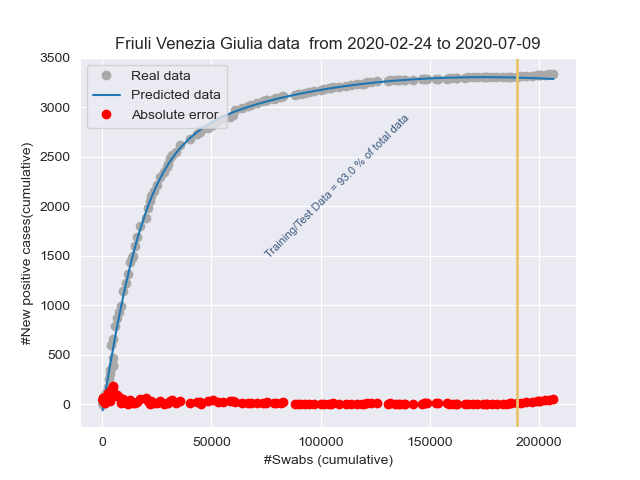
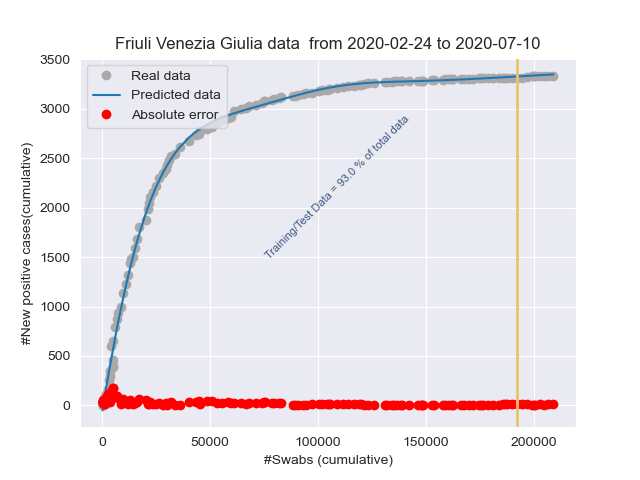
Add files via upload

diff --git a/stat_Friuli Venezia Giulia.html b/stat_Friuli Venezia Giulia.html
@@ -1,1 +1,1 @@
-<!DOCTYPE html><html lang="it"><head><title>Results</title><meta charset="utf-8"><meta name="viewport" content="width=device-width, initial-scale=1"><link rel="stylesheet" href="bootstrap.min.css"><script src="https://ajax.googleapis.com/ajax/libs/jquery/3.4.1/jquery.min.js"></script><script src="https://maxcdn.bootstrapcdn.com/bootstrap/3.4.1/js/bootstrap.min.js"></script></head><body><h3>Day: 2020-07-09</h3><p class="lead my-3">New positive cases: <b>1</b></p><p class="lead my-3">Variation of positive cases: <b>-75.0%</b></p><p class="lead my-3">Number of swabs: <b>2228.0</b></p><p class="lead my-3">Variation of swabs: <b>1.09%</b></p><p class="lead my-3">Postive cases/Swabs: <b>0.04 %</b></p><p class="lead my-3">Number of people admitted to Intensive care: <b>0</b></p><p class="lead my-3">Number of recovered people: <b>8.0</b></p><p class="lead my-3">Number of dead people: <b>0.0</b></p><h3>Total</h3><p class="lead my-3">Population of  Friuli Venezia Giulia: <b>1215220</b> <a href="http://dati.istat.it/Index.aspx?QueryId=18548" target="_blank">ISTAT data</a></p><p class="lead my-3">Total number of positive cases from 2020-02-24 00:00:00 to 2020-07-09: <b> 3332</b></p><p class="lead my-3">Total number of swabs from 2020-02-24 00:00:00 to 2020-07-09: <b> 206808</b></p><p class="lead my-3">TotalSwabs/Population: <b> 17.02%</b></p></body></html>
+<!DOCTYPE html><html lang="it"><head><title>Results</title><meta charset="utf-8"><meta name="viewport" content="width=device-width, initial-scale=1"><link rel="stylesheet" href="bootstrap.min.css"><script src="https://ajax.googleapis.com/ajax/libs/jquery/3.4.1/jquery.min.js"></script><script src="https://maxcdn.bootstrapcdn.com/bootstrap/3.4.1/js/bootstrap.min.js"></script></head><body><h3>Day: 2020-07-10</h3><p class="lead my-3">New positive cases: <b>1</b></p><p class="lead my-3">Variation of positive cases: <b>0.0%</b></p><p class="lead my-3">Number of swabs: <b>2353.0</b></p><p class="lead my-3">Variation of swabs: <b>1.14%</b></p><p class="lead my-3">Postive cases/Swabs: <b>0.04 %</b></p><p class="lead my-3">Number of people admitted to Intensive care: <b>0</b></p><p class="lead my-3">Number of recovered people: <b>-2.0</b></p><p class="lead my-3">Number of dead people: <b>0.0</b></p><h3>Total</h3><p class="lead my-3">Population of  Friuli Venezia Giulia: <b>1215220</b> <a href="http://dati.istat.it/Index.aspx?QueryId=18548" target="_blank">ISTAT data</a></p><p class="lead my-3">Total number of positive cases from 2020-02-24 00:00:00 to 2020-07-10: <b> 3333</b></p><p class="lead my-3">Total number of swabs from 2020-02-24 00:00:00 to 2020-07-10: <b> 209161</b></p><p class="lead my-3">TotalSwabs/Population: <b> 17.21%</b></p></body></html>

diff --git a/stat_Emilia-Romagna.html b/stat_Emilia-Romagna.html
@@ -1,1 +1,1 @@
-<!DOCTYPE html><html lang="it"><head><title>Results</title><meta charset="utf-8"><meta name="viewport" content="width=device-width, initial-scale=1"><link rel="stylesheet" href="bootstrap.min.css"><script src="https://ajax.googleapis.com/ajax/libs/jquery/3.4.1/jquery.min.js"></script><script src="https://maxcdn.bootstrapcdn.com/bootstrap/3.4.1/js/bootstrap.min.js"></script></head><body><h3>Day: 2020-07-09</h3><p class="lead my-3">New positive cases: <b>29</b></p><p class="lead my-3">Variation of positive cases: <b>-40.82%</b></p><p class="lead my-3">Number of swabs: <b>5343.0</b></p><p class="lead my-3">Variation of swabs: <b>1.01%</b></p><p class="lead my-3">Postive cases/Swabs: <b>0.54 %</b></p><p class="lead my-3">Number of people admitted to Intensive care: <b>10</b></p><p class="lead my-3">Number of recovered people: <b>19.0</b></p><p class="lead my-3">Number of dead people: <b>0.0</b></p><h3>Total</h3><p class="lead my-3">Population of  Emilia-Romagna: <b>4459477</b> <a href="http://dati.istat.it/Index.aspx?QueryId=18548" target="_blank">ISTAT data</a></p><p class="lead my-3">Total number of positive cases from 2020-02-24 00:00:00 to 2020-07-09: <b> 28788</b></p><p class="lead my-3">Total number of swabs from 2020-02-24 00:00:00 to 2020-07-09: <b> 536432</b></p><p class="lead my-3">TotalSwabs/Population: <b> 12.03%</b></p></body></html>
+<!DOCTYPE html><html lang="it"><head><title>Results</title><meta charset="utf-8"><meta name="viewport" content="width=device-width, initial-scale=1"><link rel="stylesheet" href="bootstrap.min.css"><script src="https://ajax.googleapis.com/ajax/libs/jquery/3.4.1/jquery.min.js"></script><script src="https://maxcdn.bootstrapcdn.com/bootstrap/3.4.1/js/bootstrap.min.js"></script></head><body><h3>Day: 2020-07-10</h3><p class="lead my-3">New positive cases: <b>53</b></p><p class="lead my-3">Variation of positive cases: <b>82.76%</b></p><p class="lead my-3">Number of swabs: <b>4182.0</b></p><p class="lead my-3">Variation of swabs: <b>0.78%</b></p><p class="lead my-3">Postive cases/Swabs: <b>1.27 %</b></p><p class="lead my-3">Number of people admitted to Intensive care: <b>10</b></p><p class="lead my-3">Number of recovered people: <b>6.0</b></p><p class="lead my-3">Number of dead people: <b>0.0</b></p><h3>Total</h3><p class="lead my-3">Population of  Emilia-Romagna: <b>4459477</b> <a href="http://dati.istat.it/Index.aspx?QueryId=18548" target="_blank">ISTAT data</a></p><p class="lead my-3">Total number of positive cases from 2020-02-24 00:00:00 to 2020-07-10: <b> 28841</b></p><p class="lead my-3">Total number of swabs from 2020-02-24 00:00:00 to 2020-07-10: <b> 540614</b></p><p class="lead my-3">TotalSwabs/Population: <b> 12.12%</b></p></body></html>

diff --git a/stat_Lombardia.html b/stat_Lombardia.html
@@ -1,1 +1,1 @@
-<!DOCTYPE html><html lang="it"><head><title>Results</title><meta charset="utf-8"><meta name="viewport" content="width=device-width, initial-scale=1"><link rel="stylesheet" href="bootstrap.min.css"><script src="https://ajax.googleapis.com/ajax/libs/jquery/3.4.1/jquery.min.js"></script><script src="https://maxcdn.bootstrapcdn.com/bootstrap/3.4.1/js/bootstrap.min.js"></script></head><body><h3>Day: 2020-07-09</h3><p class="lead my-3">New positive cases: <b>119</b></p><p class="lead my-3">Variation of positive cases: <b>67.61%</b></p><p class="lead my-3">Number of swabs: <b>11812.0</b></p><p class="lead my-3">Variation of swabs: <b>1.07%</b></p><p class="lead my-3">Postive cases/Swabs: <b>1.01 %</b></p><p class="lead my-3">Number of people admitted to Intensive care: <b>31</b></p><p class="lead my-3">Number of recovered people: <b>217.0</b></p><p class="lead my-3">Number of dead people: <b>5.0</b></p><h3>Total</h3><p class="lead my-3">Population of  Lombardia: <b>10060574</b> <a href="http://dati.istat.it/Index.aspx?QueryId=18548" target="_blank">ISTAT data</a></p><p class="lead my-3">Total number of positive cases from 2020-02-24 00:00:00 to 2020-07-09: <b> 94764</b></p><p class="lead my-3">Total number of swabs from 2020-02-24 00:00:00 to 2020-07-09: <b> 1114827</b></p><p class="lead my-3">TotalSwabs/Population: <b> 11.08%</b></p></body></html>
+<!DOCTYPE html><html lang="it"><head><title>Results</title><meta charset="utf-8"><meta name="viewport" content="width=device-width, initial-scale=1"><link rel="stylesheet" href="bootstrap.min.css"><script src="https://ajax.googleapis.com/ajax/libs/jquery/3.4.1/jquery.min.js"></script><script src="https://maxcdn.bootstrapcdn.com/bootstrap/3.4.1/js/bootstrap.min.js"></script></head><body><h3>Day: 2020-07-10</h3><p class="lead my-3">New positive cases: <b>135</b></p><p class="lead my-3">Variation of positive cases: <b>13.45%</b></p><p class="lead my-3">Number of swabs: <b>11505.0</b></p><p class="lead my-3">Variation of swabs: <b>1.03%</b></p><p class="lead my-3">Postive cases/Swabs: <b>1.17 %</b></p><p class="lead my-3">Number of people admitted to Intensive care: <b>27</b></p><p class="lead my-3">Number of recovered people: <b>145.0</b></p><p class="lead my-3">Number of dead people: <b>6.0</b></p><h3>Total</h3><p class="lead my-3">Population of  Lombardia: <b>10060574</b> <a href="http://dati.istat.it/Index.aspx?QueryId=18548" target="_blank">ISTAT data</a></p><p class="lead my-3">Total number of positive cases from 2020-02-24 00:00:00 to 2020-07-10: <b> 94899</b></p><p class="lead my-3">Total number of swabs from 2020-02-24 00:00:00 to 2020-07-10: <b> 1126332</b></p><p class="lead my-3">TotalSwabs/Population: <b> 11.2%</b></p></body></html>

diff --git a/stat_Italy.html b/stat_Italy.html
@@ -1,1 +1,1 @@
-<!DOCTYPE html><html lang="it"><head><title>Results</title><meta charset="utf-8"><meta name="viewport" content="width=device-width, initial-scale=1"><link rel="stylesheet" href="bootstrap.min.css"><script src="https://ajax.googleapis.com/ajax/libs/jquery/3.4.1/jquery.min.js"></script><script src="https://maxcdn.bootstrapcdn.com/bootstrap/3.4.1/js/bootstrap.min.js"></script></head><body><h3>Day: 2020-07-09</h3><p class="lead my-3">New positive cases: <b>229</b></p><p class="lead my-3">Variation of positive cases: <b>18.65%</b></p><p class="lead my-3">Number of swabs: <b>52552.0</b></p><p class="lead my-3">Variation of swabs: <b>0.91%</b></p><p class="lead my-3">Postive cases/Swabs: <b>0.44 %</b></p><p class="lead my-3">Number of people admitted to Intensive care: <b>69</b></p><p class="lead my-3">Number of recovered people: <b>338.0</b></p><p class="lead my-3">Number of dead people: <b>12.0</b></p><h3>Total</h3><p class="lead my-3">Population of  Italy: <b>60359546</b> <a href="http://dati.istat.it/Index.aspx?QueryId=18548" target="_blank">ISTAT data</a></p><p class="lead my-3">Total number of positive cases from 2020-02-24 00:00:00 to 2020-07-09: <b> 242401</b></p><p class="lead my-3">Total number of swabs from 2020-02-24 00:00:00 to 2020-07-09: <b> 5806668</b></p><p class="lead my-3">TotalSwabs/Population: <b> 9.62%</b></p></body></html>
+<!DOCTYPE html><html lang="it"><head><title>Results</title><meta charset="utf-8"><meta name="viewport" content="width=device-width, initial-scale=1"><link rel="stylesheet" href="bootstrap.min.css"><script src="https://ajax.googleapis.com/ajax/libs/jquery/3.4.1/jquery.min.js"></script><script src="https://maxcdn.bootstrapcdn.com/bootstrap/3.4.1/js/bootstrap.min.js"></script></head><body><h3>Day: 2020-07-10</h3><p class="lead my-3">New positive cases: <b>276</b></p><p class="lead my-3">Variation of positive cases: <b>20.52%</b></p><p class="lead my-3">Number of swabs: <b>47953.0</b></p><p class="lead my-3">Variation of swabs: <b>0.83%</b></p><p class="lead my-3">Postive cases/Swabs: <b>0.58 %</b></p><p class="lead my-3">Number of people admitted to Intensive care: <b>65</b></p><p class="lead my-3">Number of recovered people: <b>295.0</b></p><p class="lead my-3">Number of dead people: <b>12.0</b></p><h3>Total</h3><p class="lead my-3">Population of  Italy: <b>60359546</b> <a href="http://dati.istat.it/Index.aspx?QueryId=18548" target="_blank">ISTAT data</a></p><p class="lead my-3">Total number of positive cases from 2020-02-24 00:00:00 to 2020-07-10: <b> 242677</b></p><p class="lead my-3">Total number of swabs from 2020-02-24 00:00:00 to 2020-07-10: <b> 5854621</b></p><p class="lead my-3">TotalSwabs/Population: <b> 9.7%</b></p></body></html>

diff --git a/stat_Piemonte.html b/stat_Piemonte.html
@@ -1,1 +1,1 @@
-<!DOCTYPE html><html lang="it"><head><title>Results</title><meta charset="utf-8"><meta name="viewport" content="width=device-width, initial-scale=1"><link rel="stylesheet" href="bootstrap.min.css"><script src="https://ajax.googleapis.com/ajax/libs/jquery/3.4.1/jquery.min.js"></script><script src="https://maxcdn.bootstrapcdn.com/bootstrap/3.4.1/js/bootstrap.min.js"></script></head><body><h3>Day: 2020-07-09</h3><p class="lead my-3">New positive cases: <b>16</b></p><p class="lead my-3">Variation of positive cases: <b>-36.0%</b></p><p class="lead my-3">Number of swabs: <b>3427.0</b></p><p class="lead my-3">Variation of swabs: <b>0.78%</b></p><p class="lead my-3">Postive cases/Swabs: <b>0.47 %</b></p><p class="lead my-3">Number of people admitted to Intensive care: <b>10</b></p><p class="lead my-3">Number of recovered people: <b>31.0</b></p><p class="lead my-3">Number of dead people: <b>1.0</b></p><h3>Total</h3><p class="lead my-3">Population of  Piemonte: <b>4356406</b> <a href="http://dati.istat.it/Index.aspx?QueryId=18548" target="_blank">ISTAT data</a></p><p class="lead my-3">Total number of positive cases from 2020-02-24 00:00:00 to 2020-07-09: <b> 31475</b></p><p class="lead my-3">Total number of swabs from 2020-02-24 00:00:00 to 2020-07-09: <b> 441677</b></p><p class="lead my-3">TotalSwabs/Population: <b> 10.14%</b></p></body></html>
+<!DOCTYPE html><html lang="it"><head><title>Results</title><meta charset="utf-8"><meta name="viewport" content="width=device-width, initial-scale=1"><link rel="stylesheet" href="bootstrap.min.css"><script src="https://ajax.googleapis.com/ajax/libs/jquery/3.4.1/jquery.min.js"></script><script src="https://maxcdn.bootstrapcdn.com/bootstrap/3.4.1/js/bootstrap.min.js"></script></head><body><h3>Day: 2020-07-10</h3><p class="lead my-3">New positive cases: <b>10</b></p><p class="lead my-3">Variation of positive cases: <b>-37.5%</b></p><p class="lead my-3">Number of swabs: <b>2766.0</b></p><p class="lead my-3">Variation of swabs: <b>0.63%</b></p><p class="lead my-3">Postive cases/Swabs: <b>0.36 %</b></p><p class="lead my-3">Number of people admitted to Intensive care: <b>9</b></p><p class="lead my-3">Number of recovered people: <b>57.0</b></p><p class="lead my-3">Number of dead people: <b>2.0</b></p><h3>Total</h3><p class="lead my-3">Population of  Piemonte: <b>4356406</b> <a href="http://dati.istat.it/Index.aspx?QueryId=18548" target="_blank">ISTAT data</a></p><p class="lead my-3">Total number of positive cases from 2020-02-24 00:00:00 to 2020-07-10: <b> 31485</b></p><p class="lead my-3">Total number of swabs from 2020-02-24 00:00:00 to 2020-07-10: <b> 444443</b></p><p class="lead my-3">TotalSwabs/Population: <b> 10.2%</b></p></body></html>

diff --git a/stat_Liguria.html b/stat_Liguria.html
@@ -1,1 +1,1 @@
-<!DOCTYPE html><html lang="it"><head><title>Results</title><meta charset="utf-8"><meta name="viewport" content="width=device-width, initial-scale=1"><link rel="stylesheet" href="bootstrap.min.css"><script src="https://ajax.googleapis.com/ajax/libs/jquery/3.4.1/jquery.min.js"></script><script src="https://maxcdn.bootstrapcdn.com/bootstrap/3.4.1/js/bootstrap.min.js"></script></head><body><h3>Day: 2020-07-09</h3><p class="lead my-3">New positive cases: <b>4</b></p><p class="lead my-3">Variation of positive cases: <b>33.33%</b></p><p class="lead my-3">Number of swabs: <b>1472.0</b></p><p class="lead my-3">Variation of swabs: <b>0.94%</b></p><p class="lead my-3">Postive cases/Swabs: <b>0.27 %</b></p><p class="lead my-3">Number of people admitted to Intensive care: <b>1</b></p><p class="lead my-3">Number of recovered people: <b>13.0</b></p><p class="lead my-3">Number of dead people: <b>0.0</b></p><h3>Total</h3><p class="lead my-3">Population of  Liguria: <b>1550640</b> <a href="http://dati.istat.it/Index.aspx?QueryId=18548" target="_blank">ISTAT data</a></p><p class="lead my-3">Total number of positive cases from 2020-02-24 00:00:00 to 2020-07-09: <b> 10010</b></p><p class="lead my-3">Total number of swabs from 2020-02-24 00:00:00 to 2020-07-09: <b> 158901</b></p><p class="lead my-3">TotalSwabs/Population: <b> 10.25%</b></p></body></html>
+<!DOCTYPE html><html lang="it"><head><title>Results</title><meta charset="utf-8"><meta name="viewport" content="width=device-width, initial-scale=1"><link rel="stylesheet" href="bootstrap.min.css"><script src="https://ajax.googleapis.com/ajax/libs/jquery/3.4.1/jquery.min.js"></script><script src="https://maxcdn.bootstrapcdn.com/bootstrap/3.4.1/js/bootstrap.min.js"></script></head><body><h3>Day: 2020-07-10</h3><p class="lead my-3">New positive cases: <b>15</b></p><p class="lead my-3">Variation of positive cases: <b>275.0%</b></p><p class="lead my-3">Number of swabs: <b>1563.0</b></p><p class="lead my-3">Variation of swabs: <b>0.98%</b></p><p class="lead my-3">Postive cases/Swabs: <b>0.96 %</b></p><p class="lead my-3">Number of people admitted to Intensive care: <b>1</b></p><p class="lead my-3">Number of recovered people: <b>29.0</b></p><p class="lead my-3">Number of dead people: <b>0.0</b></p><h3>Total</h3><p class="lead my-3">Population of  Liguria: <b>1550640</b> <a href="http://dati.istat.it/Index.aspx?QueryId=18548" target="_blank">ISTAT data</a></p><p class="lead my-3">Total number of positive cases from 2020-02-24 00:00:00 to 2020-07-10: <b> 10025</b></p><p class="lead my-3">Total number of swabs from 2020-02-24 00:00:00 to 2020-07-10: <b> 160464</b></p><p class="lead my-3">TotalSwabs/Population: <b> 10.35%</b></p></body></html>

diff --git a/stat_P.A. Bolzano.html b/stat_P.A. Bolzano.html
@@ -1,1 +1,1 @@
-<!DOCTYPE html><html lang="it"><head><title>Results</title><meta charset="utf-8"><meta name="viewport" content="width=device-width, initial-scale=1"><link rel="stylesheet" href="bootstrap.min.css"><script src="https://ajax.googleapis.com/ajax/libs/jquery/3.4.1/jquery.min.js"></script><script src="https://maxcdn.bootstrapcdn.com/bootstrap/3.4.1/js/bootstrap.min.js"></script></head><body><h3>Day: 2020-07-09</h3><p class="lead my-3">New positive cases: <b>3</b></p><p class="lead my-3">Variation of positive cases: <b>50.0%</b></p><p class="lead my-3">Number of swabs: <b>615.0</b></p><p class="lead my-3">Variation of swabs: <b>0.7%</b></p><p class="lead my-3">Postive cases/Swabs: <b>0.49 %</b></p><p class="lead my-3">Number of people admitted to Intensive care: <b>0</b></p><p class="lead my-3">Number of recovered people: <b>2.0</b></p><p class="lead my-3">Number of dead people: <b>0.0</b></p><h3>Total</h3><p class="lead my-3">Population of  P.A. Bolzano: <b>531178</b> <a href="http://dati.istat.it/Index.aspx?QueryId=18548" target="_blank">ISTAT data</a></p><p class="lead my-3">Total number of positive cases from 2020-02-24 00:00:00 to 2020-07-09: <b> 2652</b></p><p class="lead my-3">Total number of swabs from 2020-02-24 00:00:00 to 2020-07-09: <b> 89077</b></p><p class="lead my-3">TotalSwabs/Population: <b> 16.77%</b></p></body></html>
+<!DOCTYPE html><html lang="it"><head><title>Results</title><meta charset="utf-8"><meta name="viewport" content="width=device-width, initial-scale=1"><link rel="stylesheet" href="bootstrap.min.css"><script src="https://ajax.googleapis.com/ajax/libs/jquery/3.4.1/jquery.min.js"></script><script src="https://maxcdn.bootstrapcdn.com/bootstrap/3.4.1/js/bootstrap.min.js"></script></head><body><h3>Day: 2020-07-10</h3><p class="lead my-3">New positive cases: <b>5</b></p><p class="lead my-3">Variation of positive cases: <b>66.67%</b></p><p class="lead my-3">Number of swabs: <b>634.0</b></p><p class="lead my-3">Variation of swabs: <b>0.71%</b></p><p class="lead my-3">Postive cases/Swabs: <b>0.79 %</b></p><p class="lead my-3">Number of people admitted to Intensive care: <b>0</b></p><p class="lead my-3">Number of recovered people: <b>3.0</b></p><p class="lead my-3">Number of dead people: <b>0.0</b></p><h3>Total</h3><p class="lead my-3">Population of  P.A. Bolzano: <b>531178</b> <a href="http://dati.istat.it/Index.aspx?QueryId=18548" target="_blank">ISTAT data</a></p><p class="lead my-3">Total number of positive cases from 2020-02-24 00:00:00 to 2020-07-10: <b> 2657</b></p><p class="lead my-3">Total number of swabs from 2020-02-24 00:00:00 to 2020-07-10: <b> 89711</b></p><p class="lead my-3">TotalSwabs/Population: <b> 16.89%</b></p></body></html>

diff --git a/stat_P.A. Trento.html b/stat_P.A. Trento.html
@@ -1,1 +1,1 @@
-<!DOCTYPE html><html lang="it"><head><title>Results</title><meta charset="utf-8"><meta name="viewport" content="width=device-width, initial-scale=1"><link rel="stylesheet" href="bootstrap.min.css"><script src="https://ajax.googleapis.com/ajax/libs/jquery/3.4.1/jquery.min.js"></script><script src="https://maxcdn.bootstrapcdn.com/bootstrap/3.4.1/js/bootstrap.min.js"></script></head><body><h3>Day: 2020-07-09</h3><p class="lead my-3">New positive cases: <b>0</b></p><p class="lead my-3">Variation of positive cases: <b>0.0%</b></p><p class="lead my-3">Number of swabs: <b>1574.0</b></p><p class="lead my-3">Variation of swabs: <b>1.22%</b></p><p class="lead my-3">Postive cases/Swabs: <b>0.0 %</b></p><p class="lead my-3">Number of people admitted to Intensive care: <b>0</b></p><p class="lead my-3">Number of recovered people: <b>4.0</b></p><p class="lead my-3">Number of dead people: <b>0.0</b></p><h3>Total</h3><p class="lead my-3">Population of  P.A. Trento: <b>541098</b> <a href="http://dati.istat.it/Index.aspx?QueryId=18548" target="_blank">ISTAT data</a></p><p class="lead my-3">Total number of positive cases from 2020-02-24 00:00:00 to 2020-07-09: <b> 4489</b></p><p class="lead my-3">Total number of swabs from 2020-02-24 00:00:00 to 2020-07-09: <b> 130754</b></p><p class="lead my-3">TotalSwabs/Population: <b> 24.16%</b></p></body></html>
+<!DOCTYPE html><html lang="it"><head><title>Results</title><meta charset="utf-8"><meta name="viewport" content="width=device-width, initial-scale=1"><link rel="stylesheet" href="bootstrap.min.css"><script src="https://ajax.googleapis.com/ajax/libs/jquery/3.4.1/jquery.min.js"></script><script src="https://maxcdn.bootstrapcdn.com/bootstrap/3.4.1/js/bootstrap.min.js"></script></head><body><h3>Day: 2020-07-10</h3><p class="lead my-3">New positive cases: <b>3</b></p><p class="lead my-3">Variation of positive cases: <b>inf%</b></p><p class="lead my-3">Number of swabs: <b>1226.0</b></p><p class="lead my-3">Variation of swabs: <b>0.94%</b></p><p class="lead my-3">Postive cases/Swabs: <b>0.24 %</b></p><p class="lead my-3">Number of people admitted to Intensive care: <b>0</b></p><p class="lead my-3">Number of recovered people: <b>9.0</b></p><p class="lead my-3">Number of dead people: <b>0.0</b></p><h3>Total</h3><p class="lead my-3">Population of  P.A. Trento: <b>541098</b> <a href="http://dati.istat.it/Index.aspx?QueryId=18548" target="_blank">ISTAT data</a></p><p class="lead my-3">Total number of positive cases from 2020-02-24 00:00:00 to 2020-07-10: <b> 4492</b></p><p class="lead my-3">Total number of swabs from 2020-02-24 00:00:00 to 2020-07-10: <b> 131980</b></p><p class="lead my-3">TotalSwabs/Population: <b> 24.39%</b></p></body></html>

diff --git a/stat_Toscana.html b/stat_Toscana.html
@@ -1,1 +1,1 @@
-<!DOCTYPE html><html lang="it"><head><title>Results</title><meta charset="utf-8"><meta name="viewport" content="width=device-width, initial-scale=1"><link rel="stylesheet" href="bootstrap.min.css"><script src="https://ajax.googleapis.com/ajax/libs/jquery/3.4.1/jquery.min.js"></script><script src="https://maxcdn.bootstrapcdn.com/bootstrap/3.4.1/js/bootstrap.min.js"></script></head><body><h3>Day: 2020-07-09</h3><p class="lead my-3">New positive cases: <b>1</b></p><p class="lead my-3">Variation of positive cases: <b>-85.71%</b></p><p class="lead my-3">Number of swabs: <b>3071.0</b></p><p class="lead my-3">Variation of swabs: <b>0.85%</b></p><p class="lead my-3">Postive cases/Swabs: <b>0.03 %</b></p><p class="lead my-3">Number of people admitted to Intensive care: <b>2</b></p><p class="lead my-3">Number of recovered people: <b>3.0</b></p><p class="lead my-3">Number of dead people: <b>2.0</b></p><h3>Total</h3><p class="lead my-3">Population of  Toscana: <b>3729641</b> <a href="http://dati.istat.it/Index.aspx?QueryId=18548" target="_blank">ISTAT data</a></p><p class="lead my-3">Total number of positive cases from 2020-02-24 00:00:00 to 2020-07-09: <b> 10314</b></p><p class="lead my-3">Total number of swabs from 2020-02-24 00:00:00 to 2020-07-09: <b> 363333</b></p><p class="lead my-3">TotalSwabs/Population: <b> 9.74%</b></p></body></html>
+<!DOCTYPE html><html lang="it"><head><title>Results</title><meta charset="utf-8"><meta name="viewport" content="width=device-width, initial-scale=1"><link rel="stylesheet" href="bootstrap.min.css"><script src="https://ajax.googleapis.com/ajax/libs/jquery/3.4.1/jquery.min.js"></script><script src="https://maxcdn.bootstrapcdn.com/bootstrap/3.4.1/js/bootstrap.min.js"></script></head><body><h3>Day: 2020-07-10</h3><p class="lead my-3">New positive cases: <b>2</b></p><p class="lead my-3">Variation of positive cases: <b>100.0%</b></p><p class="lead my-3">Number of swabs: <b>2685.0</b></p><p class="lead my-3">Variation of swabs: <b>0.74%</b></p><p class="lead my-3">Postive cases/Swabs: <b>0.07 %</b></p><p class="lead my-3">Number of people admitted to Intensive care: <b>2</b></p><p class="lead my-3">Number of recovered people: <b>8.0</b></p><p class="lead my-3">Number of dead people: <b>1.0</b></p><h3>Total</h3><p class="lead my-3">Population of  Toscana: <b>3729641</b> <a href="http://dati.istat.it/Index.aspx?QueryId=18548" target="_blank">ISTAT data</a></p><p class="lead my-3">Total number of positive cases from 2020-02-24 00:00:00 to 2020-07-10: <b> 10316</b></p><p class="lead my-3">Total number of swabs from 2020-02-24 00:00:00 to 2020-07-10: <b> 366018</b></p><p class="lead my-3">TotalSwabs/Population: <b> 9.81%</b></p></body></html>

diff --git a/stat_Lazio.html b/stat_Lazio.html
@@ -1,1 +1,1 @@
-<!DOCTYPE html><html lang="it"><head><title>Results</title><meta charset="utf-8"><meta name="viewport" content="width=device-width, initial-scale=1"><link rel="stylesheet" href="bootstrap.min.css"><script src="https://ajax.googleapis.com/ajax/libs/jquery/3.4.1/jquery.min.js"></script><script src="https://maxcdn.bootstrapcdn.com/bootstrap/3.4.1/js/bootstrap.min.js"></script></head><body><h3>Day: 2020-07-09</h3><p class="lead my-3">New positive cases: <b>28</b></p><p class="lead my-3">Variation of positive cases: <b>100.0%</b></p><p class="lead my-3">Number of swabs: <b>2535.0</b></p><p class="lead my-3">Variation of swabs: <b>0.71%</b></p><p class="lead my-3">Postive cases/Swabs: <b>1.1 %</b></p><p class="lead my-3">Number of people admitted to Intensive care: <b>13</b></p><p class="lead my-3">Number of recovered people: <b>12.0</b></p><p class="lead my-3">Number of dead people: <b>1.0</b></p><h3>Total</h3><p class="lead my-3">Population of  Lazio: <b>5879082</b> <a href="http://dati.istat.it/Index.aspx?QueryId=18548" target="_blank">ISTAT data</a></p><p class="lead my-3">Total number of positive cases from 2020-02-24 00:00:00 to 2020-07-09: <b> 8251</b></p><p class="lead my-3">Total number of swabs from 2020-02-24 00:00:00 to 2020-07-09: <b> 359842</b></p><p class="lead my-3">TotalSwabs/Population: <b> 6.12%</b></p></body></html>
+<!DOCTYPE html><html lang="it"><head><title>Results</title><meta charset="utf-8"><meta name="viewport" content="width=device-width, initial-scale=1"><link rel="stylesheet" href="bootstrap.min.css"><script src="https://ajax.googleapis.com/ajax/libs/jquery/3.4.1/jquery.min.js"></script><script src="https://maxcdn.bootstrapcdn.com/bootstrap/3.4.1/js/bootstrap.min.js"></script></head><body><h3>Day: 2020-07-10</h3><p class="lead my-3">New positive cases: <b>23</b></p><p class="lead my-3">Variation of positive cases: <b>-17.86%</b></p><p class="lead my-3">Number of swabs: <b>2470.0</b></p><p class="lead my-3">Variation of swabs: <b>0.69%</b></p><p class="lead my-3">Postive cases/Swabs: <b>0.93 %</b></p><p class="lead my-3">Number of people admitted to Intensive care: <b>13</b></p><p class="lead my-3">Number of recovered people: <b>10.0</b></p><p class="lead my-3">Number of dead people: <b>1.0</b></p><h3>Total</h3><p class="lead my-3">Population of  Lazio: <b>5879082</b> <a href="http://dati.istat.it/Index.aspx?QueryId=18548" target="_blank">ISTAT data</a></p><p class="lead my-3">Total number of positive cases from 2020-02-24 00:00:00 to 2020-07-10: <b> 8274</b></p><p class="lead my-3">Total number of swabs from 2020-02-24 00:00:00 to 2020-07-10: <b> 362312</b></p><p class="lead my-3">TotalSwabs/Population: <b> 6.16%</b></p></body></html>

diff --git a/stat_Veneto.html b/stat_Veneto.html
@@ -1,1 +1,1 @@
-<!DOCTYPE html><html lang="it"><head><title>Results</title><meta charset="utf-8"><meta name="viewport" content="width=device-width, initial-scale=1"><link rel="stylesheet" href="bootstrap.min.css"><script src="https://ajax.googleapis.com/ajax/libs/jquery/3.4.1/jquery.min.js"></script><script src="https://maxcdn.bootstrapcdn.com/bootstrap/3.4.1/js/bootstrap.min.js"></script></head><body><h3>Day: 2020-07-09</h3><p class="lead my-3">New positive cases: <b>10</b></p><p class="lead my-3">Variation of positive cases: <b>42.86%</b></p><p class="lead my-3">Number of swabs: <b>8283.0</b></p><p class="lead my-3">Variation of swabs: <b>0.8%</b></p><p class="lead my-3">Postive cases/Swabs: <b>0.12 %</b></p><p class="lead my-3">Number of people admitted to Intensive care: <b>2</b></p><p class="lead my-3">Number of recovered people: <b>1.0</b></p><p class="lead my-3">Number of dead people: <b>3.0</b></p><h3>Total</h3><p class="lead my-3">Population of  Veneto: <b>4905854</b> <a href="http://dati.istat.it/Index.aspx?QueryId=18548" target="_blank">ISTAT data</a></p><p class="lead my-3">Total number of positive cases from 2020-02-24 00:00:00 to 2020-07-09: <b> 19357</b></p><p class="lead my-3">Total number of swabs from 2020-02-24 00:00:00 to 2020-07-09: <b> 1040189</b></p><p class="lead my-3">TotalSwabs/Population: <b> 21.2%</b></p></body></html>
+<!DOCTYPE html><html lang="it"><head><title>Results</title><meta charset="utf-8"><meta name="viewport" content="width=device-width, initial-scale=1"><link rel="stylesheet" href="bootstrap.min.css"><script src="https://ajax.googleapis.com/ajax/libs/jquery/3.4.1/jquery.min.js"></script><script src="https://maxcdn.bootstrapcdn.com/bootstrap/3.4.1/js/bootstrap.min.js"></script></head><body><h3>Day: 2020-07-10</h3><p class="lead my-3">New positive cases: <b>11</b></p><p class="lead my-3">Variation of positive cases: <b>10.0%</b></p><p class="lead my-3">Number of swabs: <b>8346.0</b></p><p class="lead my-3">Variation of swabs: <b>0.8%</b></p><p class="lead my-3">Postive cases/Swabs: <b>0.13 %</b></p><p class="lead my-3">Number of people admitted to Intensive care: <b>3</b></p><p class="lead my-3">Number of recovered people: <b>7.0</b></p><p class="lead my-3">Number of dead people: <b>2.0</b></p><h3>Total</h3><p class="lead my-3">Population of  Veneto: <b>4905854</b> <a href="http://dati.istat.it/Index.aspx?QueryId=18548" target="_blank">ISTAT data</a></p><p class="lead my-3">Total number of positive cases from 2020-02-24 00:00:00 to 2020-07-10: <b> 19368</b></p><p class="lead my-3">Total number of swabs from 2020-02-24 00:00:00 to 2020-07-10: <b> 1048535</b></p><p class="lead my-3">TotalSwabs/Population: <b> 21.37%</b></p></body></html>

diff --git a/stat_Campania.html b/stat_Campania.html
@@ -1,1 +1,1 @@
-<!DOCTYPE html><html lang="it"><head><title>Results</title><meta charset="utf-8"><meta name="viewport" content="width=device-width, initial-scale=1"><link rel="stylesheet" href="bootstrap.min.css"><script src="https://ajax.googleapis.com/ajax/libs/jquery/3.4.1/jquery.min.js"></script><script src="https://maxcdn.bootstrapcdn.com/bootstrap/3.4.1/js/bootstrap.min.js"></script></head><body><h3>Day: 2020-07-09</h3><p class="lead my-3">New positive cases: <b>5</b></p><p class="lead my-3">Variation of positive cases: <b>66.67%</b></p><p class="lead my-3">Number of swabs: <b>1587.0</b></p><p class="lead my-3">Variation of swabs: <b>0.54%</b></p><p class="lead my-3">Postive cases/Swabs: <b>0.32 %</b></p><p class="lead my-3">Number of people admitted to Intensive care: <b>0</b></p><p class="lead my-3">Number of recovered people: <b>1.0</b></p><p class="lead my-3">Number of dead people: <b>0.0</b></p><h3>Total</h3><p class="lead my-3">Population of  Campania: <b>5801692</b> <a href="http://dati.istat.it/Index.aspx?QueryId=18548" target="_blank">ISTAT data</a></p><p class="lead my-3">Total number of positive cases from 2020-02-24 00:00:00 to 2020-07-09: <b> 4755</b></p><p class="lead my-3">Total number of swabs from 2020-02-24 00:00:00 to 2020-07-09: <b> 298217</b></p><p class="lead my-3">TotalSwabs/Population: <b> 5.14%</b></p></body></html>
+<!DOCTYPE html><html lang="it"><head><title>Results</title><meta charset="utf-8"><meta name="viewport" content="width=device-width, initial-scale=1"><link rel="stylesheet" href="bootstrap.min.css"><script src="https://ajax.googleapis.com/ajax/libs/jquery/3.4.1/jquery.min.js"></script><script src="https://maxcdn.bootstrapcdn.com/bootstrap/3.4.1/js/bootstrap.min.js"></script></head><body><h3>Day: 2020-07-10</h3><p class="lead my-3">New positive cases: <b>7</b></p><p class="lead my-3">Variation of positive cases: <b>40.0%</b></p><p class="lead my-3">Number of swabs: <b>1508.0</b></p><p class="lead my-3">Variation of swabs: <b>0.51%</b></p><p class="lead my-3">Postive cases/Swabs: <b>0.46 %</b></p><p class="lead my-3">Number of people admitted to Intensive care: <b>0</b></p><p class="lead my-3">Number of recovered people: <b>2.0</b></p><p class="lead my-3">Number of dead people: <b>0.0</b></p><h3>Total</h3><p class="lead my-3">Population of  Campania: <b>5801692</b> <a href="http://dati.istat.it/Index.aspx?QueryId=18548" target="_blank">ISTAT data</a></p><p class="lead my-3">Total number of positive cases from 2020-02-24 00:00:00 to 2020-07-10: <b> 4762</b></p><p class="lead my-3">Total number of swabs from 2020-02-24 00:00:00 to 2020-07-10: <b> 299725</b></p><p class="lead my-3">TotalSwabs/Population: <b> 5.17%</b></p></body></html>
